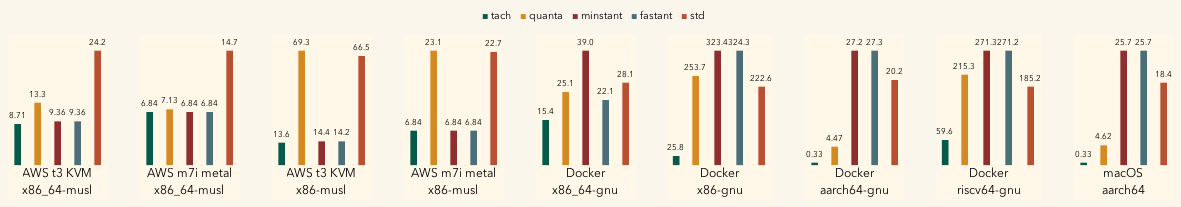
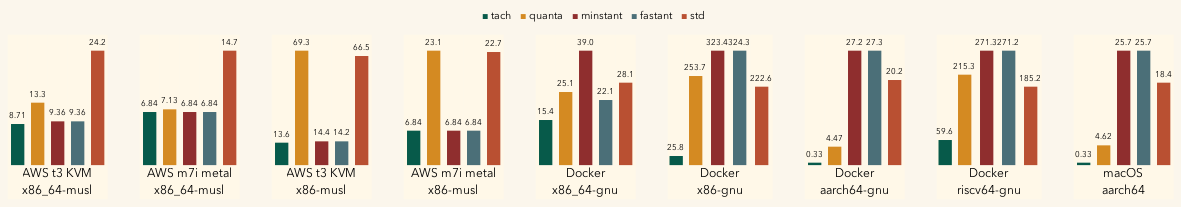
docs(readme): remove benchmark bar gutters

diff --git a/PROJECT.md b/PROJECT.md
@@ -8,6 +8,7 @@ tach provides a zero-dependency Rust API for reading fast CPU or platform tick c
 
 - [x] Fix macOS x86_64 self-patching call-target corruption
 - [x] Rename crate and GitHub repository to `tach`
+- [x] Remove benchmark chart inter-bar gutters
 - [x] Render README benchmark chart as grouped vertical bars
 - [x] Tighten benchmark chart bar geometry and legend
 - [x] Move benchmark chart legend below the bars
